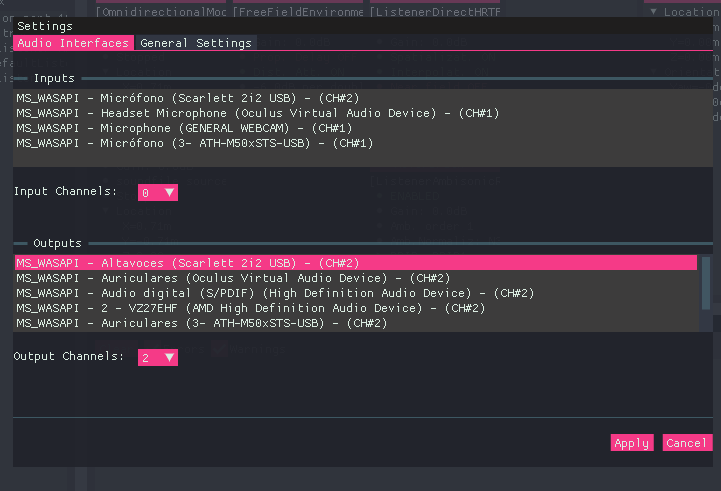
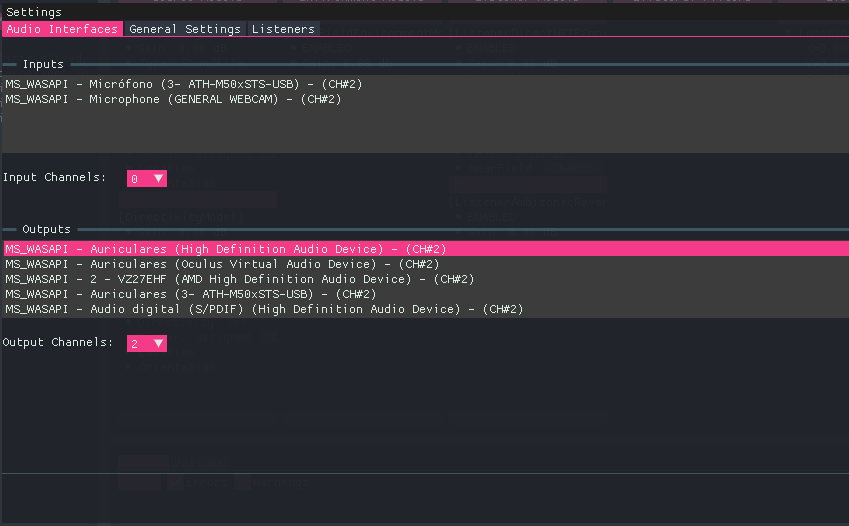
feat: Add documentation for the new multi-listener and multi-channel settings menu.

diff --git a/docs/applications/berta-renderer/settings-menu.md b/docs/applications/berta-renderer/settings-menu.md
@@ -1,7 +1,10 @@
 # Settings Menu
 
-The **Settings** menu allows users to view and configure general application parameters. It is divided into two sections:
- **Audio Interfaces** and **General settings**
+The **Settings** menu allows users to view and configure application parameters, audio interfaces and listener output routing. It contains three tabs:
+
+- **Audio Interfaces**: Select the input and output devices and the number of available channels.
+- **General Settings**: View and configure global application parameters.
+- **Listeners**: Assign listeners to physical output pairs, control their Active/Standby state and configure calibration references for virtual listeners.
 
 ## General settings
 
@@ -43,7 +46,7 @@ Each device entry includes:
 !!! info API limitation
     Both input and output devices must use the **same audio backend/API**.  This is a limitation imposed by the underlying audio library (audio backend).
 
-<div style="border: 1px solid #000; padding: 10px; display: block; max-width: 800px; margin: 0 auto;">
+<div style="border: 1px solid #000; padding: 10px; display: block; max-width: 900px; margin: 0 auto;">
     <img src="/BRT-Documentation/assets/berta_renderer_setting_menu_audio_interfaces.png" alt="BeRTA Renderer - Audio Interfaces menu" style="display: block; margin: 0 auto; max-width: 100%;">
     <p style="text-align: center;">BeRTA Renderer - Audio Interfaces menu</p>
 </div>
@@ -76,15 +79,236 @@ The output interface defines the audio device used for playback.
 
 #### Output Channels
 
-The **Output Channels** dropdown determines how many output channels are enabled.
+The **Output Channels** dropdown determines how many physical output channels are available for listener routing.
 
-- Channels are enabled **in pairs** (2, 4, 6, ...)
-- Each **listener requires 2 channels** (left and right)
+- Output channels are enabled in stereo pairs: 2, 4, 6, etc.
+- Output channel numbering starts at **0**. Four enabled channels provide pairs **0–1** and **2–3**.
+- Each pair can reproduce the signal of one active listener at a time.
+- Several listeners may share an assigned pair, but only one of them can be Active.
+- Virtual listeners do not use physical output channels.
+
+The number of output pairs limits how many listeners can be heard simultaneously. It does not limit the total number of listeners in the scene.
 
 **Example:**
 
-- If `4` channels are selected:
-  - The system can render **2 listeners simultaneously**
+With `4` output channels enabled, two listeners can be heard simultaneously through separate pairs. Additional listeners may share those pairs in Standby or remain virtual.
 
-This allows multi-listener simulations using a single multi-channel audio device.
+Configure these assignments in the **Listeners** tab described below.
 
+---
+
+## Listeners
+
+The **Listeners** tab configures how existing listeners connect to the audio interface and how they obtain the calibration used to estimate sound levels. Each listener produces its own stereo signal from its position and orientation in the scene. The output configuration determines whether that signal is sent to a physical output pair, kept in Standby or used only for virtual measurements. This tab configures existing listeners. It does not create or delete them.
+
+<div style="border: 1px solid #000; padding: 10px; display: block; max-width: 1000px; margin: 0 auto;">
+    <img src="/BRT-Documentation/assets/berta_renderer_setting_menu_listeners.png" alt="BeRTA Renderer - Listeners menu" style="display: block; margin: 0 auto; max-width: 100%;">
+    <p style="text-align: center;">BeRTA Renderer - Listener menu</p>
+</div>
+
+### Table columns
+
+| Column | Description |
+|--------|-------------|
+| **Listener** | Identifier of the existing listener. Read-only in this tab. |
+| **Type** | `Routed` or `Virtual`, determined by the output assignment. |
+| **Output** | Physical stereo pair, or `None (Virtual)` to remove the assignment. |
+| **State** | Checkbox controlling `Active` or `Standby` for Routed listeners. Virtual listeners display `N/A`. |
+| **Calibration reference** | `Own output` for Routed listeners. For Virtual listeners, another Routed listener or `None`. |
+| **Calibration** | Availability of the calibration resolved through the listener's own output or its reference. |
+
+### Listener types
+
+The **Type** column is determined automatically by the **Output** assignment, and can be *Routed* or *Virtual*.
+
+#### Routed
+
+A **Routed** listener has a physical stereo output pair assigned to it, such as `0 - 1`.
+
+It can be:
+
+- **Active**: Its signal is sent to the assigned output pair.
+- **Standby**: The assignment is retained, but its signal is not sent to the physical output.
+
+A Routed listener uses the calibration of its own assigned output pair when calculating its theoretical sound level in dBSPL.
+
+#### Virtual
+
+A **Virtual** listener has no physical output assignment. Its **Output** is `None`, and its **State** is `N/A`. Its signal remains available for digital level measurements in dBFS. It can also provide theoretical dBSPL levels if it has a valid calibration reference.
+
+Virtual listeners are useful for evaluating the signal at additional positions in the scene without using more physical output channels.
+
+!!! info "Standby and Virtual have different meanings"
+    A Standby listener retains a physical output assignment and can be activated later. A Virtual listener has no physical output assignment.
+    Neither state disables the calculation of the listener's own signal levels.
+
+
+### Assigning a physical output pair
+
+1. Locate the listener in the table.
+2. Open its **Output** dropdown.
+3. Select an available pair, such as `0 - 1` or `2 - 3`.
+4. Enable the **State** checkbox if the listener should be Active.
+5. Press **Apply**.
+
+Points to note:
+
+- The available pairs depend on the output channel count selected in **Audio Interfaces**.
+- Assigning a different pair puts the listener into **Standby**. Activate it explicitly when you want it to take control of that pair.
+- Assigning a physical output also removes any previous calibration reference: Routed listeners use their own output pair.
+
+### Sharing an output pair
+
+Several Routed listeners may be assigned to the same output pair, but only one can be Active at a time. When you activate one listener, the other listeners assigned to that pair automatically change to Standby in the table. 
+
+When you change this in the interface, you must click **Apply** for the change to take effect.
+
+For example:
+
+| Listener | Output | State |
+|----------|--------|-------|
+| A | 0 - 1 | Active |
+| C | 0 - 1 | Standby |
+
+Points to note:
+
+- Activating C changes A to Standby. After applying the changes, channels 0–1 reproduce C's signal.
+- Listeners assigned to different pairs can be Active simultaneously. Signals from listeners sharing a pair are not mixed together.
+- If all listeners assigned to a pair are in Standby, none of their signals is sent to that pair.
+
+### Configuring a virtual listener
+
+1. Open the listener's **Output** dropdown.
+2. Select **None (Virtual)**.
+3. If theoretical dBSPL measurements are required, select a Routed listener in **Calibration reference**.
+4. Otherwise, leave the reference as **None**.
+5. Press **Apply**.
+
+Points to note:
+
+- Selecting **None (Virtual)** removes the physical assignment, deactivates output routing and clears the listener's previous calibration reference. Choose the desired reference afterwards.
+- The reference dropdown lists eligible Routed listeners together with their assigned pairs, for example `A (0-1)`. A listener cannot reference itself or another Virtual listener.
+- A Virtual listener without a calibration reference is a valid configuration. Its dBFS measurements remain available, but its theoretical dBSPL level is unavailable.
+
+<div style="border: 1px solid #000; padding: 10px; display: block; max-width: 1000px; margin: 0 auto;">
+    <img src="/BRT-Documentation/assets/berta_renderer_setting_menu_listeners_calibration_reference.png" alt="BeRTA Renderer - Listeners menu Virtual listener's Calibration reference dropdown" style="display: block; margin: 0 auto; max-width: 100%;">
+    <p style="text-align: center;">BeRTA Renderer - Listener menu - Virtual listener's Calibration reference dropdown</p>
+</div>
+
+### How calibration references work
+
+Calibration belongs to a physical output pair. A Virtual listener obtains its calibration through a reference to a Routed listener:
+
+`Virtual listener B → Routed listener A → A's current output pair → calibration`
+
+B uses **its own signal level** and the calibration associated with A's output pair. It does not use A's signal level.
+
+The theoretical level is calculated as:
+
+`listener level in dBSPL = listener level in dBFS + calibration offset in dB`
+
+For more information about establishing the calibration, see [Calibration](/BRT-Documentation/applications/calibration/).
+
+#### The reference follows the listener
+
+If A moves from channels 0–1 to channels 2–3, B's reference still points to A. Once the change is applied, B uses the calibration of channels 2–3.
+
+If the new pair is not calibrated, B's theoretical dBSPL measurement becomes unavailable until calibration is provided.
+
+#### The referenced listener may be in Standby
+
+A does not need to be Active to provide a calibration reference.
+
+For example:
+
+| Listener | Type | Output | State | Calibration reference |
+|----------|------|--------|-------|-----------------------|
+| A | Routed | 0 - 1 | Standby | Own output |
+| C | Routed | 0 - 1 | Active | Own output |
+| B | Virtual | None | N/A | A |
+
+In this configuration:
+
+- Channels 0–1 reproduce C's signal.
+- A's theoretical dBSPL level uses A's signal and the calibration of channels 0–1.
+- B's theoretical dBSPL level uses B's signal and the same calibration.
+- B continues to reference A, even though C is currently audible.
+
+#### Converting a referenced listener into Virtual
+
+A Virtual listener cannot provide a calibration reference to another Virtual listener.
+
+If you change A to Virtual while B still references A, the GUI reports an invalid configuration. Before applying it, change B's reference to another Routed listener or select **None**.
+
+### Understanding the Calibration column
+
+| Displayed value | Meaning |
+|-----------------|---------|
+| **Calibrated** | The resolved output pair currently has calibration data. |
+| **Not calibrated** | An output pair is resolved, but it has no calibration data. |
+| **Unavailable** | No output pair can be resolved, for example because a Virtual listener has no calibration reference. |
+| **Requires calibration** | An output device, backend or channel-count change is pending in Settings. Calibration must be checked after applying the new output configuration. |
+
+Points to note:
+
+- This column describes calibration availability. It does not indicate whether a listener is audible or whether a current signal measurement is available. 
+- Routing may be configured before calibration is performed.
+- Calibration is needed to convert digital levels into estimated dBSPL levels. 
+- The **Listeners** tab selects the calibration source; it does not perform the calibration procedure.
+
+### Listener levels and physical output levels
+
+There are three distinct sound-level measurements:
+
+| Measurement | Signal used | Calibration | Physical safety limiter |
+|-------------|-------------|-------------|-------------------------|
+| **Listener dBFS** | The listener's own digital signal | Not required | Not applied |
+| **Listener theoretical dBSPL** | The listener's own digital signal | Own output pair or referenced listener's pair | Not applied |
+| **Output dBSPL** | Signal sent to the physical output pair | That output pair's calibration | Included |
+
+The Active/Standby state controls physical routing. It does not change the meaning of the listener's own dBFS or theoretical dBSPL measurements.
+
+A Virtual listener's theoretical level may exceed the safety limit because its signal is not being reproduced through a physical output.
+
+**Example:**
+
+Assume channels 0–1 have a calibration offset of 100 dB and a physical safety limit of 80 dBSPL.
+
+- Active Listener A produces -15 dBFS: its theoretical level is 85 dBSPL.
+- The physical limiter reduces A's output to 80 dBSPL.
+- Virtual Listener B references A and produces -10 dBFS: B's theoretical level is 90 dBSPL.
+
+B's result remains 90 dBSPL because the physical limiter is not applied to virtual measurements.
+
+These measurements can be queried using the [OSC control commands](/BRT-Documentation/osc/control/):
+
+- `/control/getListenerSoundLeveldBFS`
+- `/control/getListenerSoundLeveldBSPL`
+- `/control/getOutputSoundLeveldBSPL`
+
+### Applying changes and resolving errors
+
+Changes made in the table are pending edits until you press **Apply**. This includes automatic changes to other listeners, such as placing them in Standby when you activate a listener sharing their pair.
+
+- **Apply** validates the routing against the selected output channel count and applies the configuration. The Settings window closes after a successful application.
+- **Cancel** discards pending listener edits and closes the window.
+
+An invalid routing configuration displays an error below the table and prevents the changes from being applied.
+
+Common causes include:
+
+- An assigned pair is no longer available after reducing the output channel count.
+- A Virtual listener still references a listener that has been changed to Virtual.
+
+If you reduce the number of output channels in **Audio Interfaces**, review the **Listeners** tab before applying. Reassign listeners whose pairs are no longer available, or convert them to Virtual and review their calibration references.
+
+<div style="border: 1px solid #000; padding: 10px; display: block; max-width: 1000px; margin: 0 auto;">
+    <img src="/BRT-Documentation/assets/berta_renderer_setting_menu_listeners_calibration_reference_error.png" alt="BeRTA Renderer - Listeners menu Virtual listener's Calibration error" style="display: block; margin: 0 auto; max-width: 100%;">
+    <p style="text-align: center;">BeRTA Renderer - Listener menu - Calibration error</p>
+</div>
+
+
+!!! note "Session configuration"
+    Applying listener changes updates the running application. It does not automatically save those changes to `settings.json`.
+
+    Listener output configuration can also be set using `/control/setListenerOutput`. See the [OSC control documentation](/BRT-Documentation/osc/control/) for its arguments and behaviour.
